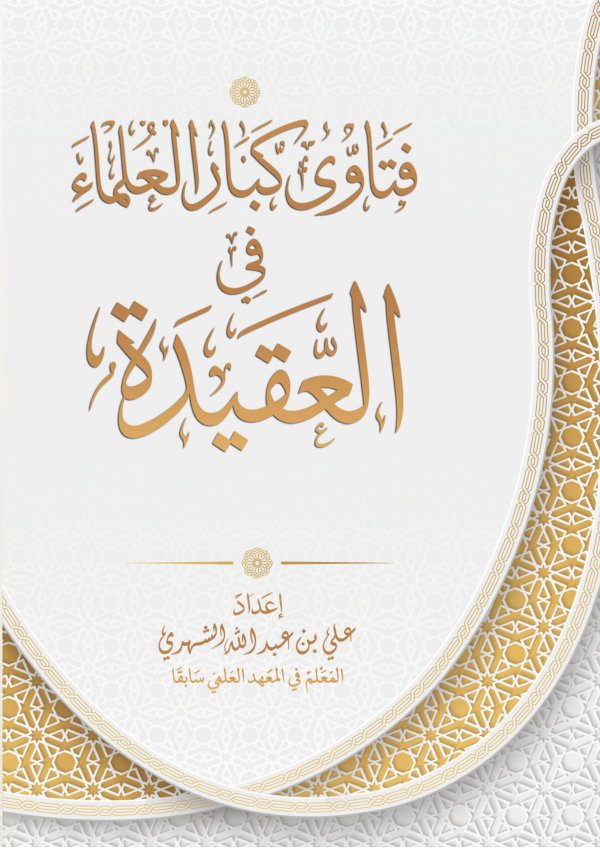
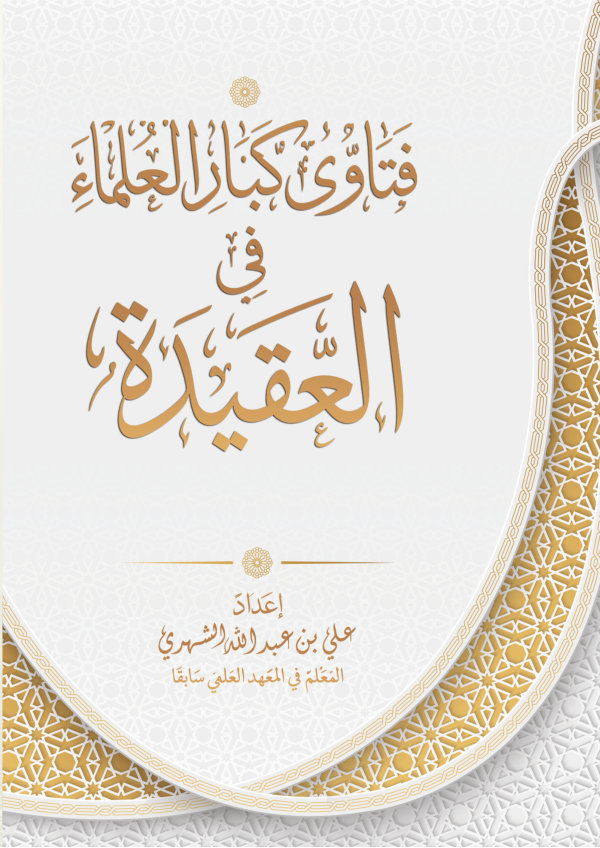
Add files via upload

diff --git a/admin.html b/admin.html
@@ -371,7 +371,7 @@ $("publish").onclick = async () => {
     const id = "b" + Date.now().toString(36);
     const file = `books/${id}.pdf`, cover = `covers/${id}.jpg`;
     say("addStatus", "info", "جارٍ رفع الكتاب… لا تغلق الصفحة" + (pdfFile.size > 30 * 1048576 ? " (الملف كبير وقد يستغرق عدة دقائق)" : ""));
-    lib.books.push({ id, title, file, cover, pages, added: today() });
+    lib.books.push({ id, title, file, cover, pages, date: today(), added: today() });
     await commit([
       { path: file, buf, big: true },
       { path: cover, buf: coverBuf },

diff --git a/README.md b/README.md
@@ -1,6 +1,6 @@
 # مكتبة الكتب — دليل مختصر
 
-## إضافة كتاب (للدكتور)
+## إضافة كتاب (لصاحب المكتبة)
 1. افتح صفحة الإدارة: `رابط-الموقع/admin.html`
 2. أول مرة فقط: الصق مفتاح GitHub واضغط «حفظ والاتصال».
 3. اكتب اسم الكتاب، واختر الغلاف (اختياري) وملف PDF، ثم اضغط «نشر الكتاب».
@@ -16,5 +16,3 @@
 - يُفضّل ألا يتجاوز حجم الكتاب 30 ميجابايت حتى يفتح بسرعة على الجوال.
 - إذا ظهرت رسالة «انتهت صلاحية المفتاح»: أنشئ مفتاحاً جديداً من GitHub (الخطوات موجودة في صفحة الإدارة).
 - لا يحتاج الموقع أي تحديثات أو صيانة، وكل المكتبات والخطوط محفوظة داخله.
-
-
